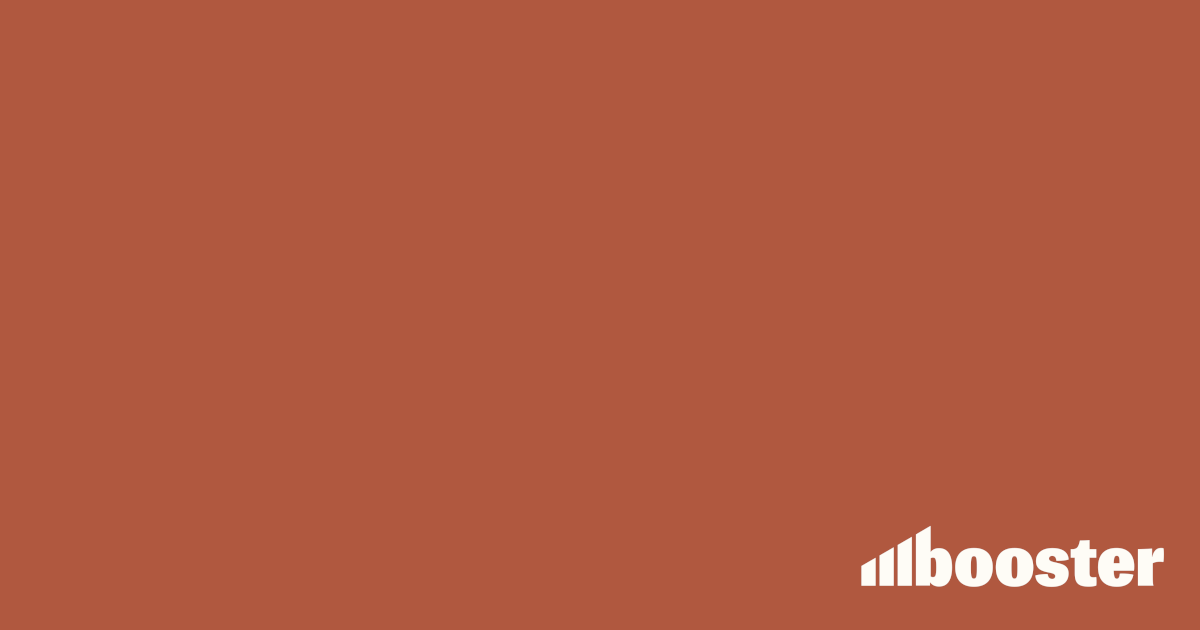
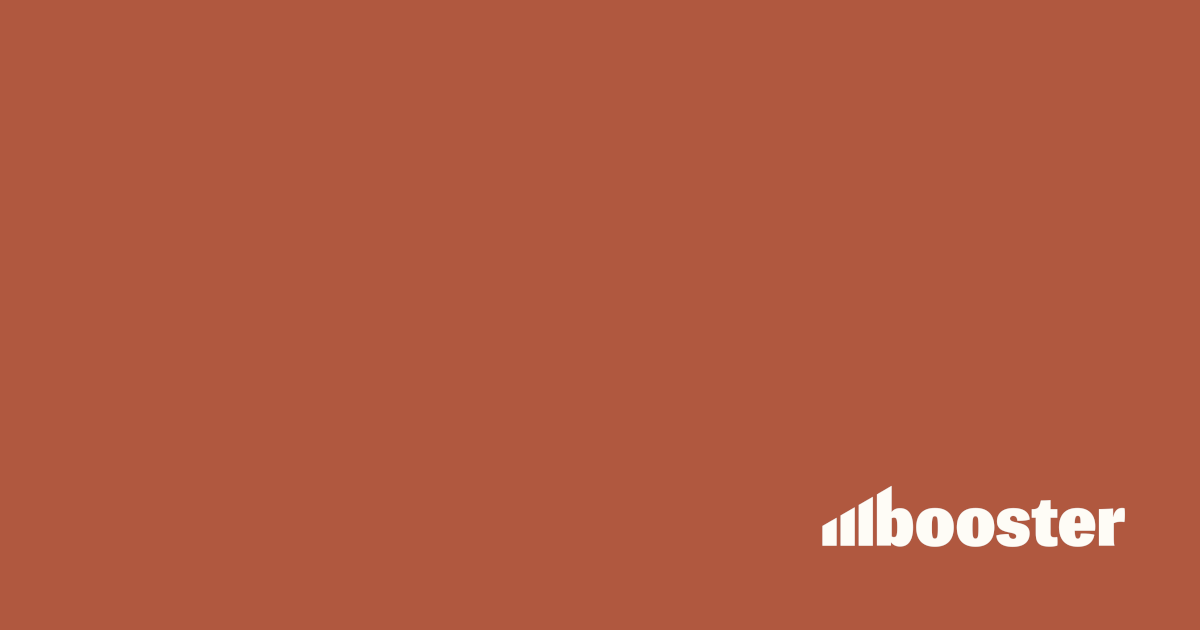
Pad the OG images a bit

Changed region(s): [[0.6783, 0.7841, 0.9867, 0.9349]]

diff --git a/themes/booster/layouts/talk/single.html b/themes/booster/layouts/talk/single.html
@@ -8,8 +8,8 @@
             "color" "#fefcf6"
             "size" 64
             "linespacing" 19
-            "x" 40
-            "y" 40
+            "x" 80
+            "y" 80
             "font" $mediumFont
             ))}}
             {{- $img = $img.Filter $titleFilter}}
@@ -23,15 +23,15 @@
                     "size" $authorFontSize
                     "linespacing" 19
                     "aligny" "bottom"
-                    "x" 40
-                    "y" (math.Sum 588 (math.Mul (math.Sub (math.Sub $authorCount $i) 1) (math.Mul (math.Add $authorFontSize 19) -1)))
+                    "x" 80
+                    "y" (math.Sum 548 (math.Mul (math.Sub (math.Sub $authorCount $i) 1) (math.Mul (math.Add $authorFontSize 19) -1)))
                     "font" $mediumFont
                     ))}}
                     {{ $img = $img.Filter $authorFilter}}
                     
                 {{- end }}
             {{- end }}
-            {{- $img = resources.Copy (path.Join .Page.RelPermalink "og32.png") $img }}
+            {{- $img = resources.Copy (path.Join .Page.RelPermalink "og34.png") $img }}
             <meta property="og:image" content="{{$img.Permalink}}">
             <meta property="og:image:width" content="{{$img.Width}}" />
             <meta property="og:image:height" content="{{$img.Height}}" />
